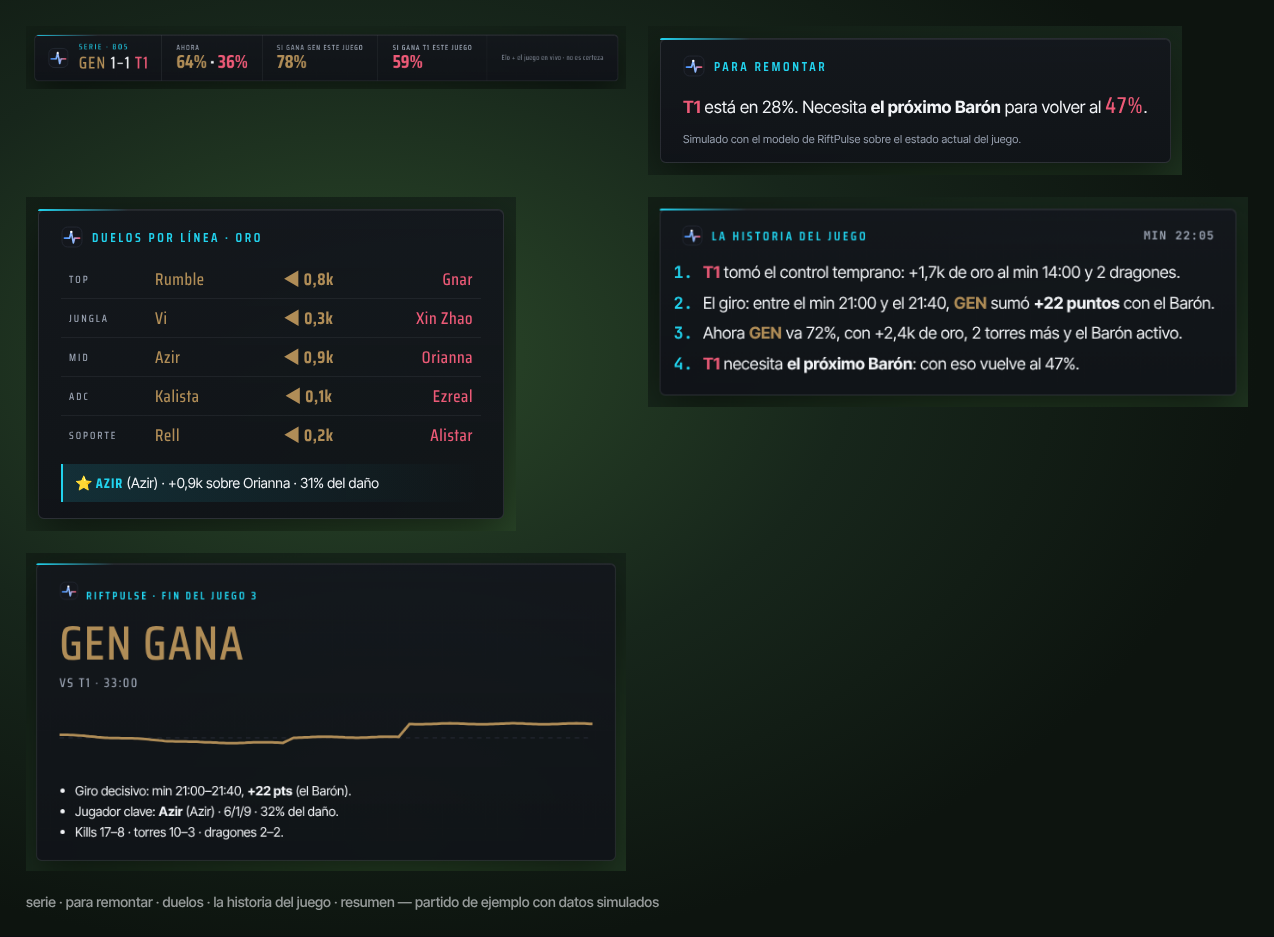
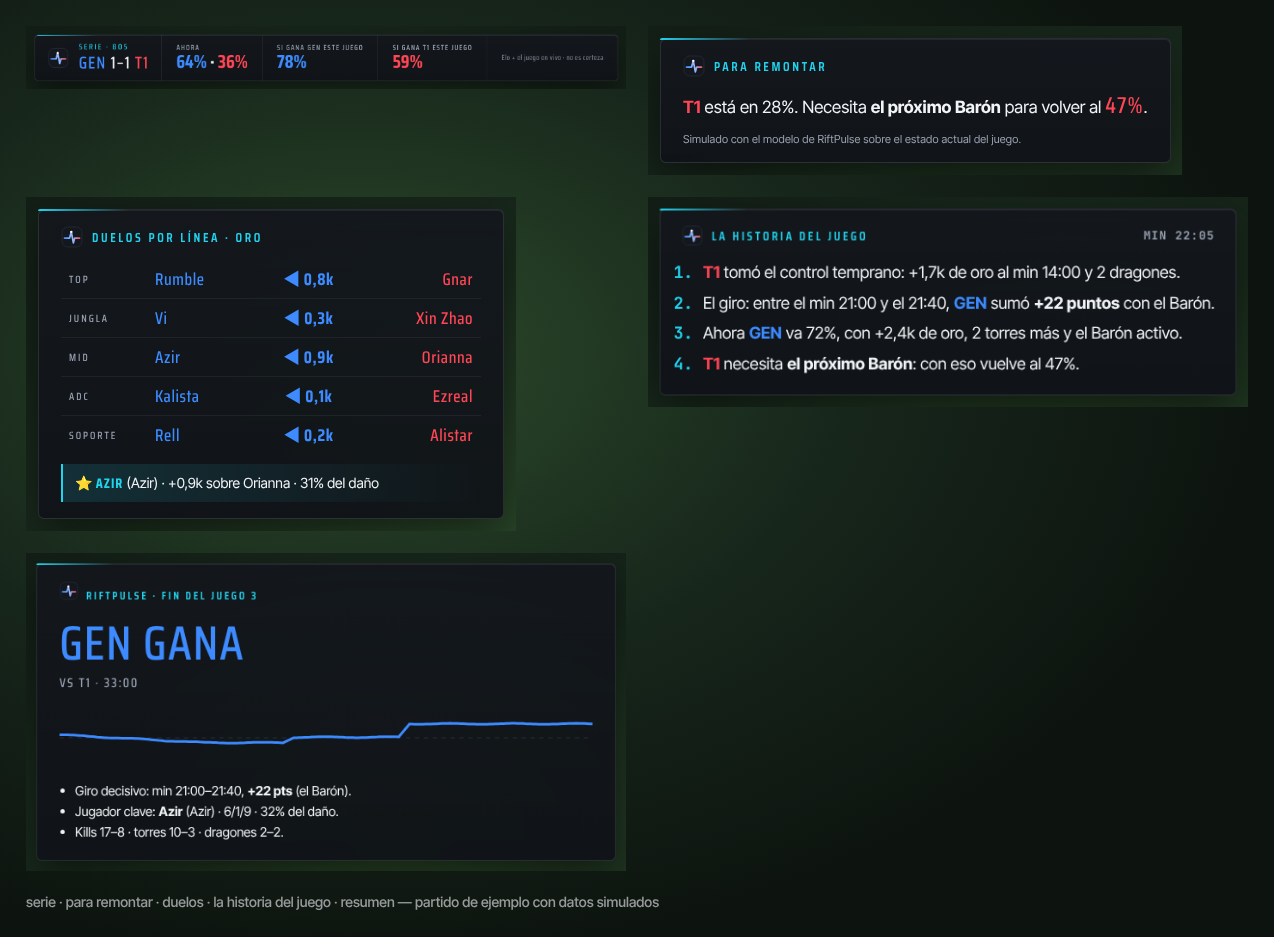
Página para Nick: el sistema completo (en tu stream, para vos mientras comentás y para tu chat), textos al día (colores del HUD, pelea en equipo, predicciones del staff); imágenes y captura de la extensión regeneradas con azul y rojo por lado

diff --git a/nick.html b/nick.html
@@ -73,7 +73,7 @@
 <div class="wrap">
   <div class="eyebrow"><img src="logo.svg" alt="">RiftPulse · tu segunda pantalla del Mundial · para Nick Daboom</div>
   <h1>Nick, esto lo hice pensando en <span class="hl">streams como el tuyo</span></h1>
-  <p class="lead">¡Hola, Nick! Soy <b>VectisDev</b>. Armé <b>RiftPulse</b>, un overlay que le muestra a tu chat <b>quién va ganando la partida, en vivo y en porcentaje</b>, en los colores de cada equipo. Ponés <b>una sola URL en OBS y RiftPulse decide qué mostrar</b> en cada momento. No es un número inventado: el modelo está entrenado con más de 2.200 juegos profesionales y <b>acierta el 75 % al minuto 15</b>, medido sobre 589 partidas que nunca había visto.</p>
+  <p class="lead">¡Hola, Nick! Soy <b>VectisDev</b>. Armé <b>RiftPulse</b>, un sistema para vivir el Mundial en tu stream: un overlay que le muestra a tu chat <b>quién va ganando la partida, en vivo y en porcentaje</b>, un panel con todo lo que necesitás para comentar y una extensión para que tu comunidad lo tenga en su propia pantalla. Ponés <b>una sola URL en OBS y RiftPulse decide qué mostrar</b> en cada momento. No es un número inventado: el modelo está entrenado con más de 2.200 juegos profesionales y <b>acierta el 75 % al minuto 15</b>, medido sobre 589 partidas que nunca había visto.</p>
 
   <div class="stage">
     <span class="live">● DEMO · PARTIDO REAL DEL MUNDIAL</span>
@@ -81,7 +81,7 @@
       <iframe src="overlay.html?demo&view=auto&director=show" title="RiftPulse con el director automático" scrolling="no"></iframe>
     </div>
   </div>
-  <p class="snote">Esto está corriendo ahora mismo: un partido real del Mundial ya jugado, acelerado ×8, con <b>una sola URL</b>. Las piezas entran y salen solas: el impacto antes del dragón o el Barón, el daño tras una pelea, la alerta en un giro y el resumen al terminar.</p>
+  <p class="snote">Esto está corriendo ahora mismo: un partido real del Mundial ya jugado, acelerado ×8, con <b>una sola URL</b>. Las piezas entran y salen solas: el impacto antes del dragón o el Barón, lo que pasó en cada pelea en equipo, la alerta en un giro y el resumen al terminar.</p>
 
   <div class="cta">
     <button class="btn primary" id="copy">📋 Copiar URL para OBS</button>
@@ -90,15 +90,31 @@
   </div>
   <div class="msg" id="msg"></div>
 
-  <h2>Lo que le suma a tu stream</h2>
+  <h2>En tu stream (OBS)</h2>
   <div class="grid">
     <div class="card"><div class="ic">🤖</div><h3>Se maneja solo</h3><p>Una sola URL y RiftPulse decide qué mostrar en cada momento, sin dos piezas encima de la partida. Si querés, lo manejás con el teclado desde un panel dentro de OBS.</p></div>
-    <div class="card"><div class="ic">🎨</div><h3>En los colores de cada equipo</h3><p>Un GEN vs T1 se ve dorado y rojo; un G2 vs FNC, en sus colores. O todo en <b>los colores de tu canal</b>, con tu logo.</p></div>
+    <div class="card"><div class="ic">🎨</div><h3>Como el HUD de la transmisión</h3><p>El equipo de la izquierda en azul y el de la derecha en rojo, igual que el marcador de Riot: nadie se confunde. O todo en <b>los colores de tu canal</b>, con tu logo.</p></div>
     <div class="card"><div class="ic">🔥</div><h3>Discusión con el chat</h3><p><q>RiftPulse le da 81 % a T1… ¿se la dan vuelta?</q> El número arma la conversación solo.</p></div>
     <div class="card"><div class="ic">⚡</div><h3>Alerta cuando la partida da vuelta</h3><p>Si tras un Barón la probabilidad salta 20 puntos, aparece un aviso en pantalla, justo cuando todos quieren comentar.</p></div>
-    <div class="card"><div class="ic">🎙</div><h3>Datos para comentar sin buscarlos</h3><p>Una segunda pantalla con frases listas: quién gana cada línea, qué necesita el que va abajo para remontar y cuánto vale el juego para la serie.</p></div>
+    <div class="card"><div class="ic">⚔</div><h3>Cada pelea en equipo, explicada</h3><p>Después de un 5v5: quién la ganó, el oro, el objetivo que siguió y qué hizo cada jugador en la pelea. Las peleas chicas no interrumpen.</p></div>
     <div class="card"><div class="ic">🏁</div><h3>Resumen al terminar cada juego</h3><p>Quién ganó, el momento que lo decidió y el jugador clave, con una imagen lista para tus redes.</p></div>
   </div>
+
+  <h2>Para vos mientras comentás</h2>
+  <div class="grid">
+    <div class="card"><div class="ic">🎙</div><h3>Guion listo para leer</h3><p>En el panel (Mando), frases para decir al aire: quién va ganando y por qué, la figura de la última pelea, qué necesita el que va abajo y el momento justo para un clip.</p></div>
+    <div class="card"><div class="ic">🗳</div><h3>Predicciones del staff</h3><p>Cargás los picks tuyos y de tus co-casters, los aciertos se marcan solos al terminar cada partido y la tabla sale en pantalla con una URL. Ideal para picarse con el chat.</p></div>
+  </div>
+  <img src="docs/img/predicciones.png" alt="Predicciones del staff en pantalla (datos de ejemplo)" loading="lazy" style="display:block;width:100%;border-radius:14px;border:1px solid var(--line);margin-top:14px">
+  <p class="snote">Predicciones del staff en pantalla (datos de ejemplo). También tenés la <a href="analista.html?demo" target="_blank" rel="noopener" style="color:var(--link)">mesa de análisis</a> para una segunda pantalla.</p>
+
+  <h2>Para tu chat</h2>
+  <div class="grid">
+    <div class="card"><div class="ic">🖥</div><h3>La extensión, sobre el video</h3><p>Cada uno ve la probabilidad encima del partido en Twitch o lolesports, <b>sincronizada sola con el minuto que está viendo</b>: en vivo, en un VOD o en tu co-stream con su retraso. Aparece solo cuando el juego está en pantalla.</p></div>
+    <div class="card"><div class="ic">📱</div><h3>La app, con todo el Mundial</h3><p>El partido en vivo, la fase suiza, las eliminatorias, el pronóstico de cada uno contra RiftPulse y un modo sin spoilers para ver los VOD.</p></div>
+  </div>
+  <img src="docs/chrome-web-store/1-overlay.png" alt="La extensión sobre el video del partido" loading="lazy" style="display:block;width:100%;border-radius:14px;border:1px solid var(--line);margin-top:14px">
+  <p class="snote"><b>Si tu chat lo usa, todos miran el mismo número que vos.</b> Se instala en un minuto desde <a href="instalar.html" style="color:var(--link)">riftpulse · Instalar</a>.</p>
 
   <h2>Probarlo te lleva un minuto</h2>
   <ol class="steps">
@@ -111,7 +127,7 @@
   <div class="ask">
     <p><b>Nada obligatorio.</b> Es gratis y no te pido nada a cambio.</p>
     <p>Si lo probás un rato en una partida y me contás qué te gustó y qué no, ya me ayudás muchísimo. Y si te convence y te dan ganas de mostrarlo en el stream, para mí sería enorme.</p>
-    <p>Ya podés ponerle <b>los colores de tu canal o del SoloBoom y tu logo</b> con solo agregarlos a la URL (<code>&amp;tema=canal&amp;accent=…&amp;logo=…</code>). Y si se te ocurre una pieza que le falta, la hago.</p>
+    <p>Ya podés ponerle <b>los colores de tu canal o del SoloBoom y tu logo</b> con solo agregarlos a la URL (<code>&amp;tema=canal&amp;accent=…&amp;logo=…</code>). Las predicciones del staff también están listas para usar. Y si se te ocurre una pieza que le falta, la hago.</p>
   </div>
 
   <h2>Para que estés tranquilo</h2>

diff --git a/pruebas/captura-extension.js b/pruebas/captura-extension.js
@@ -1,0 +1,23 @@
+// Captura de la extensión para la Chrome Web Store y el pitch (docs/chrome-web-store/1-overlay.png, 1280×800):
+// el overlay real sobre el video de prueba generado (no es una transmisión real), con un panel de pelea en equipo de ejemplo.
+const {chromium} = require('playwright'), fs = require('fs'), path = require('path');
+process.env.RP_FUENTES = '1';
+const {montar, RAIZ} = require('./mocks');
+(async () => {
+  const b = await chromium.launch(), ctx = await b.newContext({viewport: {width: 1480, height: 900}}); await montar(ctx, {video: 'desk.webm'});
+  const p = await ctx.newPage(); p.on('pageerror', e => console.log('error de página:', e.message));
+  await p.goto('https://www.twitch.tv/videos/1');
+  await p.evaluate(() => { localStorage.setItem('rp_bienv', '1'); window.RP_DEBUG = true; const v = document.getElementById('v'); v.load(); v.play(); });
+  for (const f of ['engine.js', 'ext-overlay.js']) await p.addScriptTag({content: fs.readFileSync(path.join(RAIZ, f), 'utf8')});
+  await p.waitForTimeout(12000);
+  await p.evaluate(() => {
+    document.getElementById('v').pause();
+    const J = (name, k, d, a, dsh, tipo) => ({name, champ: name, champId: name, k, d, a, part: k + d + a > 0, dsh, tipo});
+    window.__rpRender(s => Object.assign({}, s, {game: Object.assign({}, s.game, {fight: {gt: s.game.gt - 1, ini: s.game.gt - 24, kb: 3, kr: 1, win: 'blue', oro: {blue: 1650, red: 420}, obj: {side: 'blue', txt: 'Dragón Infernal'}, p0: s.game.pBlue - 0.09, p1: s.game.pBlue,
+      blue: [J('Top', 1, 0, 1, 1.8, 'físico'), J('Jungla', 0, 0, 2, -0.6, 'físico'), J('Mid', 1, 0, 2, 3.9, 'mágico'), J('ADC', 1, 1, 0, 2.7, 'físico'), J('Soporte', 0, 0, 3, -1.1, 'mágico')],
+      red: [J('Top', 0, 1, 0, -1.6, 'físico'), J('Jungla', 0, 1, 1, -0.4, 'mixto'), J('Mid', 1, 1, 0, 1.1, 'mágico'), J('ADC', 0, 0, 1, 0.5, 'físico'), J('Soporte', 0, 0, 0, 0, 'mágico')]}})}));
+  });
+  await p.waitForTimeout(1500);
+  await p.screenshot({path: path.join(RAIZ, 'docs', 'chrome-web-store', '1-overlay.png'), clip: {x: 100, y: 20, width: 1280, height: 800}});
+  await b.close(); console.log('Captura en docs/chrome-web-store/1-overlay.png');
+})();

diff --git a/INSTRUCCIONES-NICK.md b/INSTRUCCIONES-NICK.md
@@ -6,22 +6,37 @@
 
 ¡Hola, Nick! Soy **VectisDev**.
 
-Te escribo porque tu stream es de los que más viven el LoL en español, y armé algo que creo que le puede sumar a tus partidas del Mundial: **RiftPulse**, un overlay que le muestra a tu chat **quién va ganando la partida, en vivo y en porcentaje**, en los colores de cada equipo. Ponés **una sola URL en OBS y RiftPulse decide qué mostrar** en cada momento.
+Te escribo porque tu stream es de los que más viven el LoL en español, y armé algo que creo que le puede sumar a tus partidas del Mundial: **RiftPulse**, un sistema para vivir el Mundial en tu stream. Un overlay que le muestra a tu chat **quién va ganando la partida, en vivo y en porcentaje**, un panel con todo lo que necesitás para comentar y una extensión para que tu comunidad lo tenga en su propia pantalla. Ponés **una sola URL en OBS y RiftPulse decide qué mostrar** en cada momento.
 
 No es un número inventado: es un modelo entrenado con más de 2.200 juegos profesionales que **acierta el 75 % de las veces al minuto 15**, medido sobre 589 partidas que nunca había visto. Y lo muestra a la vista, sin esconder cuándo se equivoca.
 
 <p align="center"><img src="docs/img/overlay-en-transmision.jpg" alt="RiftPulse sobre una transmisión"></p>
 
-## Lo que le puede sumar a tu stream
+## En tu stream (OBS)
 
-- 🤖 **Se maneja solo.** El impacto antes del dragón o el Barón, el daño tras una pelea, la alerta en un giro, qué necesita el que va abajo y el resumen al terminar entran y salen solos, nunca dos encima de la partida. Si querés, lo manejás con el teclado desde un panel dentro de OBS.
-- 🎨 **En los colores de cada equipo.** Un GEN vs T1 se ve dorado y rojo. O todo en los colores de tu canal, con tu logo.
+- 🤖 **Se maneja solo.** El impacto antes del dragón o el Barón, lo que pasó en cada pelea en equipo, la alerta en un giro, qué necesita el que va abajo y el resumen al terminar entran y salen solos, nunca dos encima de la partida. Si querés, lo manejás con el teclado desde un panel dentro de OBS.
+- 🎨 **Como el HUD de la transmisión.** El equipo de la izquierda en azul y el de la derecha en rojo, igual que el marcador de Riot. O todo en los colores de tu canal, con tu logo.
 - 🔥 **Discusión con el chat.** «RiftPulse le da 81 % a T1… ¿se la dan vuelta?». El número arma la conversación sola.
 - ⚡ **Alerta cuando la partida da vuelta.** Si tras un Barón la probabilidad salta 20 puntos, aparece un aviso en pantalla, justo en el momento que todos quieren comentar.
-- 🎙 **Datos para comentar sin buscarlos.** Una segunda pantalla con frases listas: quién gana cada línea, qué necesita el que va perdiendo para remontar y cuánto vale este juego para la serie.
+- ⚔ **Cada pelea en equipo, explicada.** Después de un 5v5: quién la ganó, el oro, el objetivo que siguió y qué hizo cada jugador en la pelea. Las peleas chicas no interrumpen.
 - 🏁 **Resumen al terminar cada juego.** Quién ganó, el momento que lo decidió y el jugador clave, con una imagen lista para tus redes.
 
 <p align="center"><img src="docs/img/piezas-casters.png" width="560" alt="Piezas de RiftPulse"></p>
+
+## Para vos mientras comentás
+
+- 🎙 **Guion listo para leer.** En el panel (Mando), frases para decir al aire: quién va ganando y por qué, la figura de la última pelea, qué necesita el que va abajo y el momento justo para un clip.
+- 🗳 **Predicciones del staff.** Cargás los picks tuyos y de tus co-casters, los aciertos se marcan solos al terminar cada partido y la tabla sale en pantalla con una URL.
+- 📊 **Mesa de análisis** para una segunda pantalla.
+
+<p align="center"><img src="docs/img/predicciones.png" width="720" alt="Predicciones del staff (datos de ejemplo)"></p>
+
+## Para tu chat
+
+- 🖥 **La extensión, sobre el video.** Cada uno ve la probabilidad encima del partido en Twitch o lolesports, sincronizada sola con el minuto que está viendo: en vivo, en un VOD o en tu co-stream con su retraso. Aparece solo cuando el juego está en pantalla.
+- 📱 **La app, con todo el Mundial.** El partido en vivo, la fase suiza, las eliminatorias, el pronóstico de cada uno contra RiftPulse y un modo sin spoilers.
+
+**Si tu chat lo usa, todos miran el mismo número que vos.** Se instala en un minuto desde [la página Instalar](https://userf8a2c4.github.io/riftpulse-overlay/instalar.html).
 
 ## Probarlo te lleva un minuto
 
@@ -35,7 +50,7 @@ No es un número inventado: es un modelo entrenado con más de 2.200 juegos prof
 
 Si lo probás un rato en una partida y me contás qué te gustó y qué no, ya me ayudás muchísimo. Y si te convence y te dan ganas de mostrarlo en el stream, para mí sería enorme.
 
-Ya podés ponerle **los colores de tu canal o del SoloBoom y tu logo** con solo agregarlos a la URL (`&tema=canal&accent=` y `&logo=`). Y si se te ocurre una pieza que le falta, la hago.
+Ya podés ponerle **los colores de tu canal o del SoloBoom y tu logo** con solo agregarlos a la URL (`&tema=canal&accent=` y `&logo=`). Las predicciones del staff también están listas para usar. Y si se te ocurre una pieza que le falta, la hago.
 
 ## Para que estés tranquilo
 
